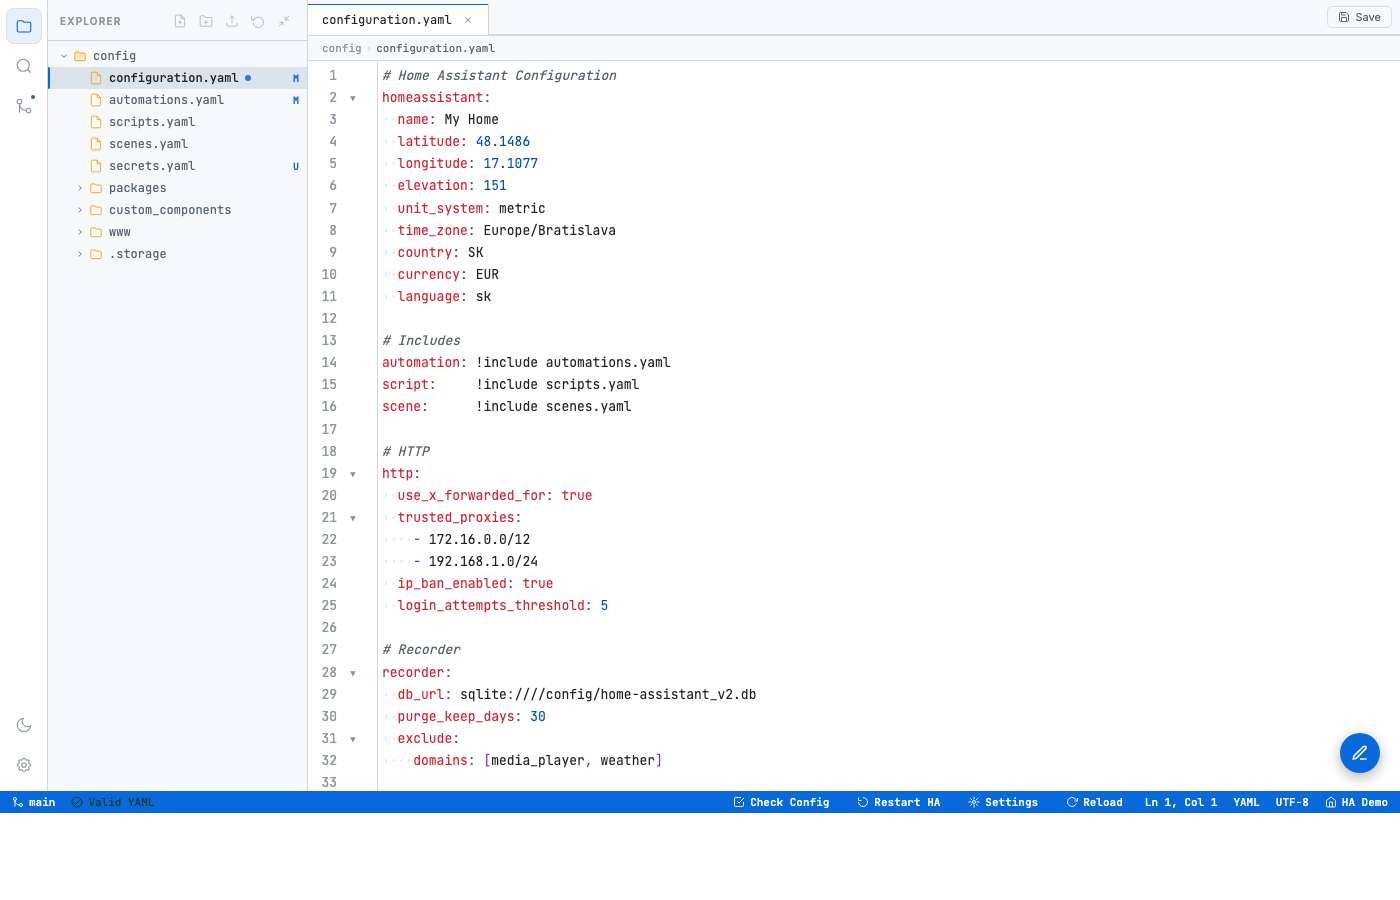
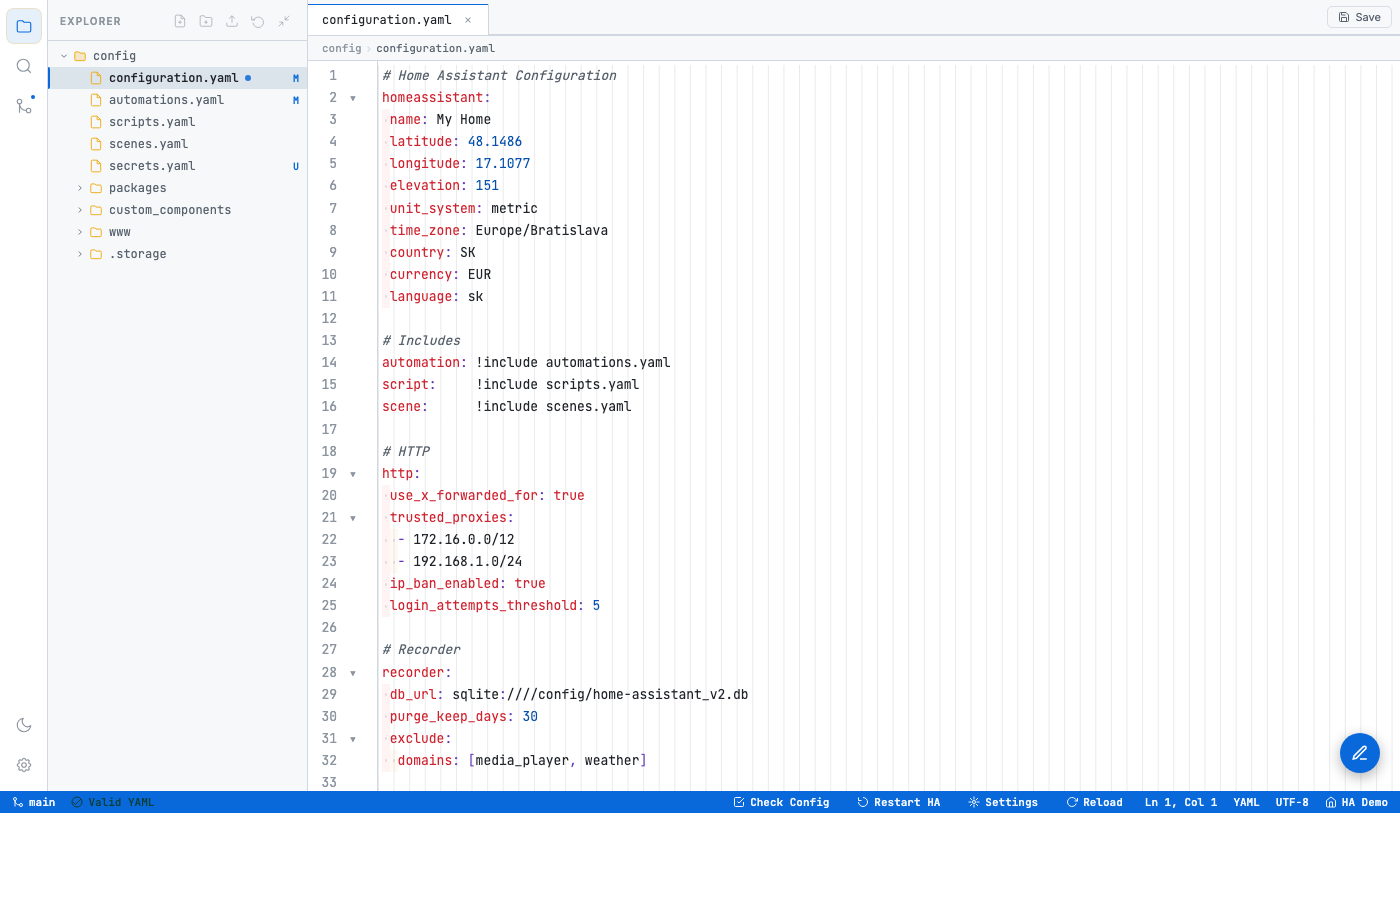
1.5.3: resizable sidebar, close-confirm dialog, Settings gear, continuous rainbow
- Drag-resizable sidebar: .sidebar-resizer handle on right edge,
  mousedown -> mousemove updates --sidebar-width live, mouseup
  commits to PREFS.sidebarWidth (clamped 180-600, default 260).
  Double-click resets to default. CodeMirror refreshes after.
- closeTab now detects tab.modified and opens a 3-button confirm
  overlay (Save / Don't save / Cancel) before the actual close.
  Save awaits saveCurrentFile() then closes; Don't save closes
  immediately; Cancel leaves the tab open.
- Settings modal header: swapped the 8-spoke icon for the proper
  6-tooth cog, matching the sidebar Settings button.
- Indent-style marker spans now render as inline-block with
  height:1.7em so rainbow/gradient/bars colors fill the entire
  row vertically - no sliver of background between lines.

diff --git a/file_editor_pro/index.html b/file_editor_pro/index.html
@@ -169,7 +169,13 @@
     .activity-spacer{flex:1}
 
     /* ── SIDEBAR ── */
-    .sidebar{width:var(--sidebar-width);background:var(--bg-dark);border-right:1px solid var(--border);display:flex;flex-direction:column;flex-shrink:0;overflow:hidden}
+    .sidebar{width:var(--sidebar-width);background:var(--bg-dark);border-right:1px solid var(--border);display:flex;flex-direction:column;flex-shrink:0;overflow:hidden;position:relative}
+    /* Resize handle: 4 px draggable strip on the right edge of the
+       sidebar. Widens to 6 px on hover to make it easier to grab. */
+    .sidebar-resizer{position:absolute;top:0;bottom:0;right:-2px;width:4px;cursor:col-resize;z-index:50;background:transparent;transition:background .1s}
+    .sidebar-resizer:hover,.sidebar-resizer.dragging{background:var(--accent);opacity:.6}
+    body.resizing{user-select:none;cursor:col-resize}
+    body.resizing *{cursor:col-resize !important}
     .sidebar-header{padding:10px 12px 8px;font-size:10px;font-weight:600;letter-spacing:.12em;text-transform:uppercase;color:var(--text-muted);border-bottom:1px solid var(--border);display:flex;align-items:center;justify-content:space-between;flex-shrink:0}
     .sidebar-header-actions{display:flex;gap:4px}
     .icon-btn{width:22px;height:22px;display:flex;align-items:center;justify-content:center;border-radius:4px;cursor:pointer;color:var(--text-muted);transition:all .1s;background:none;border:none}
@@ -369,6 +375,22 @@
     .fab-menu-shortcut{margin-left:auto;font-family:var(--font-mono);font-size:10px;color:var(--text-muted)}
     .fab-menu-divider{height:1px;background:var(--border);margin:4px 2px}
 
+    /* ── UNSAVED-CHANGES CONFIRM DIALOG ── */
+    .confirm-overlay{position:fixed;inset:0;background:rgba(0,0,0,.45);z-index:2100;display:none;align-items:center;justify-content:center;backdrop-filter:blur(2px)}
+    .confirm-overlay.show{display:flex}
+    .confirm-modal{width:min(420px,94vw);background:var(--bg-light);border:1px solid var(--border-light);border-radius:10px;box-shadow:0 20px 60px rgba(0,0,0,.5);overflow:hidden}
+    .confirm-body{padding:18px 20px}
+    .confirm-title{font-size:14px;font-weight:600;color:var(--text-primary);margin-bottom:6px}
+    .confirm-message{font-size:12.5px;color:var(--text-secondary);line-height:1.5}
+    .confirm-filename{font-family:var(--font-mono);color:var(--accent);word-break:break-all}
+    .confirm-footer{display:flex;gap:8px;padding:12px 20px;background:var(--bg-mid);border-top:1px solid var(--border);justify-content:flex-end}
+    .confirm-btn{padding:7px 14px;border-radius:5px;font-family:var(--font-ui);font-size:12px;font-weight:500;cursor:pointer;border:1px solid var(--border-light);background:transparent;color:var(--text-primary);transition:all .1s}
+    .confirm-btn:hover{background:var(--bg-hover)}
+    .confirm-btn.primary{background:var(--accent);color:#fff;border-color:var(--accent)}
+    .confirm-btn.primary:hover{opacity:.9}
+    .confirm-btn.danger{color:var(--accent-red);border-color:var(--accent-red)}
+    .confirm-btn.danger:hover{background:var(--accent-red);color:#fff}
+
     /* ── SETTINGS MODAL ── */
     .settings-overlay{position:fixed;inset:0;background:rgba(0,0,0,.4);z-index:1950;display:none;align-items:center;justify-content:center;backdrop-filter:blur(2px)}
     .settings-overlay.show{display:flex}
@@ -434,6 +456,19 @@
        NOT the whitespace dots which live on the same span.
        Using background-color (not the background shorthand) so the
        .cm-ws-space background-image layer still shows through. */
+
+    /* Marker spans render as inline-block with full line-height so
+       the coloured background paints edge-to-edge vertically — no
+       sliver of blank space between rows. */
+    .cm-s-ha [class*="cm-ir-"],
+    .cm-s-ha [class*="cm-ib-"],
+    .cm-s-ha [class*="cm-ig-"]{
+      display: inline-block;
+      width: 1ch;
+      height: 1.7em;
+      vertical-align: bottom;
+      position: relative;
+    }
 
     /* ── INDENT RAINBOW ── */
     .cm-s-ha .cm-ir-0{background-color:rgba(255, 92, 92, calc(.07 * var(--indent-opacity, 1)))}
@@ -519,7 +554,8 @@
   </div>
 
   <!-- Sidebar -->
-  <div class="sidebar">
+  <div class="sidebar" id="sidebar">
+    <div class="sidebar-resizer" id="sidebar-resizer" title="Drag to resize"></div>
 
     <!-- FILES PANEL -->
     <div class="panel-content active" id="panel-files">
@@ -726,11 +762,31 @@
   </div>
 </div>
 
+<!-- Unsaved-changes confirm dialog -->
+<div class="confirm-overlay" id="confirm-modal">
+  <div class="confirm-modal">
+    <div class="confirm-body">
+      <div class="confirm-title">Unsaved changes</div>
+      <div class="confirm-message" id="confirm-message">
+        <span class="confirm-filename" id="confirm-filename"></span> has unsaved changes.
+      </div>
+    </div>
+    <div class="confirm-footer">
+      <button class="confirm-btn"        onclick="_confirmClose('cancel')">Cancel</button>
+      <button class="confirm-btn danger" onclick="_confirmClose('discard')">Don't save</button>
+      <button class="confirm-btn primary" onclick="_confirmClose('save')">Save</button>
+    </div>
+  </div>
+</div>
+
 <!-- Settings Modal -->
 <div class="settings-overlay" id="settings-modal">
   <div class="settings-modal">
     <div class="settings-header">
-      <svg viewBox="0 0 24 24" fill="none" stroke="currentColor" style="width:16px;height:16px"><circle cx="12" cy="12" r="3"/><path d="M12 1v6m0 10v6M4.22 4.22l4.24 4.24m7.08 7.08l4.24 4.24M1 12h6m10 0h6M4.22 19.78l4.24-4.24m7.08-7.08l4.24-4.24"/></svg>
+      <svg viewBox="0 0 24 24" fill="none" stroke="currentColor" stroke-width="1.5" stroke-linecap="round" stroke-linejoin="round" style="width:16px;height:16px">
+        <path d="M10.325 4.317c.426-1.756 2.924-1.756 3.35 0a1.724 1.724 0 0 0 2.573 1.066c1.543-.94 3.31.826 2.37 2.37a1.724 1.724 0 0 0 1.065 2.572c1.756.426 1.756 2.924 0 3.35a1.724 1.724 0 0 0-1.066 2.573c.94 1.543-.826 3.31-2.37 2.37a1.724 1.724 0 0 0-2.572 1.065c-.426 1.756-2.924 1.756-3.35 0a1.724 1.724 0 0 0-2.573-1.066c-1.543.94-3.31-.826-2.37-2.37a1.724 1.724 0 0 0-1.065-2.572c-1.756-.426-1.756-2.924 0-3.35a1.724 1.724 0 0 0 1.066-2.573c-.94-1.543.826-3.31 2.37-2.37 1 .608 2.296.07 2.572-1.065z"/>
+        <circle cx="12" cy="12" r="3"/>
+      </svg>
       <div class="settings-title">Settings</div>
       <button class="settings-close" onclick="closeSettings()">×</button>
     </div>
@@ -1440,6 +1496,23 @@ function closeTab(id, e) {
   e?.stopPropagation();
   const idx = tabs.findIndex(t => t.id === id);
   if (idx < 0) return;
+  const tab = tabs[idx];
+  if (tab.modified) {
+    confirmUnsaved(tab, async (action) => {
+      if (action === 'cancel') return;
+      if (action === 'save') {
+        // Save requires the tab to be active (saveCurrentFile reads activeTabId)
+        if (activeTabId !== id) switchTab(id);
+        await Promise.resolve(saveCurrentFile());
+      }
+      _doCloseTab(idx, id);
+    });
+    return;
+  }
+  _doCloseTab(idx, id);
+}
+
+function _doCloseTab(idx, id) {
   tabs.splice(idx, 1);
   if (activeTabId === id) {
     if (!tabs.length) {
@@ -1454,6 +1527,25 @@ function closeTab(id, e) {
   renderTabs();
   renderFileTree();
 }
+
+// ═══════════════════════════════════════════════════════════════
+// UNSAVED-CHANGES CONFIRM DIALOG
+// ═══════════════════════════════════════════════════════════════
+let _confirmCallback = null;
+function confirmUnsaved(tab, cb) {
+  _confirmCallback = cb;
+  document.getElementById('confirm-filename').textContent = tab.name;
+  document.getElementById('confirm-modal').classList.add('show');
+}
+function _confirmClose(action) {
+  document.getElementById('confirm-modal').classList.remove('show');
+  const cb = _confirmCallback;
+  _confirmCallback = null;
+  if (cb) cb(action);
+}
+document.getElementById('confirm-modal').addEventListener('click', e => {
+  if (e.target.id === 'confirm-modal') _confirmClose('cancel');
+});
 
 function renderTabs() {
   const bar = document.getElementById('tab-bar');
@@ -2140,6 +2232,7 @@ const PREFS = {
   defaultDark:  'ha-dark',       // picked when the sun/moon toggle goes dark
   fontSize: 13,
   sidebarFontSize: 12,           // file tree + sidebar panels
+  sidebarWidth: 260,             // px, user-resizable
   tabSize: 2,
   indentWithTabs: false,
   indentStyle: 'none',           // none | guides | rainbow | bars | gradient
@@ -2179,6 +2272,10 @@ function applyPrefs() {
   // Sidebar font size
   const sfs = Math.max(10, Math.min(18, Number(PREFS.sidebarFontSize) || 12));
   document.documentElement.style.setProperty('--sidebar-font-size', sfs + 'px');
+
+  // Sidebar width (drag-resizable)
+  const sw = Math.max(180, Math.min(600, Number(PREFS.sidebarWidth) || 260));
+  document.documentElement.style.setProperty('--sidebar-width', sw + 'px');
 
   if (!editor) return;
   editor.setOption('tabSize', PREFS.tabSize);
@@ -2247,6 +2344,44 @@ function setFontSize(n) {
 function setSidebarFontSize(n) {
   PREFS.sidebarFontSize = Math.max(10, Math.min(18, Number(n) || 12));
   savePrefs(); applyPrefs();
+}
+function setSidebarWidth(n) {
+  PREFS.sidebarWidth = Math.max(180, Math.min(600, Number(n) || 260));
+  savePrefs(); applyPrefs();
+}
+
+// Drag-to-resize for the sidebar. Sets --sidebar-width live while
+// dragging, then commits to PREFS on mouseup.
+function attachSidebarResizer() {
+  const r = document.getElementById('sidebar-resizer');
+  if (!r) return;
+  let startX = 0, startW = 0;
+  const move = e => {
+    const nx = e.clientX - startX + startW;
+    const w = Math.max(180, Math.min(600, nx));
+    document.documentElement.style.setProperty('--sidebar-width', w + 'px');
+  };
+  const up = e => {
+    document.removeEventListener('mousemove', move);
+    document.removeEventListener('mouseup', up);
+    document.body.classList.remove('resizing');
+    r.classList.remove('dragging');
+    const cssw = document.documentElement.style.getPropertyValue('--sidebar-width');
+    const px = parseInt(cssw, 10) || PREFS.sidebarWidth;
+    setSidebarWidth(px);
+    if (editor) editor.refresh();
+  };
+  r.addEventListener('mousedown', e => {
+    e.preventDefault();
+    startX = e.clientX;
+    startW = document.getElementById('sidebar').getBoundingClientRect().width;
+    r.classList.add('dragging');
+    document.body.classList.add('resizing');
+    document.addEventListener('mousemove', move);
+    document.addEventListener('mouseup', up);
+  });
+  // Double-click to reset to default 260
+  r.addEventListener('dblclick', () => setSidebarWidth(260));
 }
 function setTabSize(n) {
   PREFS.tabSize = n;
@@ -2994,6 +3129,7 @@ document.addEventListener('DOMContentLoaded', async () => {
   loadPrefs();
   applyPrefs();
   updateThemeToggleIcon();
+  attachSidebarResizer();
 
   // Wire show-hint with our HA-aware source
   editor.setOption('hintOptions', { hint: haHintSource, completeSingle: false });

diff --git a/file_editor_pro/CHANGELOG.md b/file_editor_pro/CHANGELOG.md
@@ -1,5 +1,12 @@
 # Changelog
 
+## 1.5.3 — Resizable sidebar, close-confirm, Settings gear, continuous rainbow bands
+
+- **Drag-resizable sidebar**: grab the right edge to resize between 180 and 600 px, double-click to reset to 260 px. Width persists in `localStorage`.
+- **Unsaved-changes close dialog**: closing a modified tab now opens a three-button confirm — Save / Don't save / Cancel — instead of discarding silently. Save saves the file first, then closes.
+- **Settings modal gear icon** matches the sidebar gear (same 6-tooth cog — was still the old 8-spoke icon).
+- **Rainbow bands now fill the row vertically**: marker spans switched to `inline-block` with full line-height so the colored backgrounds connect across rows with no white gaps between lines, matching the VS Code Indent Rainbow look.
+
 ## 1.5.2 — Indent transparency actually works, dots under colored styles, rainbow + guides
 
 - **Indent style transparency** now works. Two fixes:
